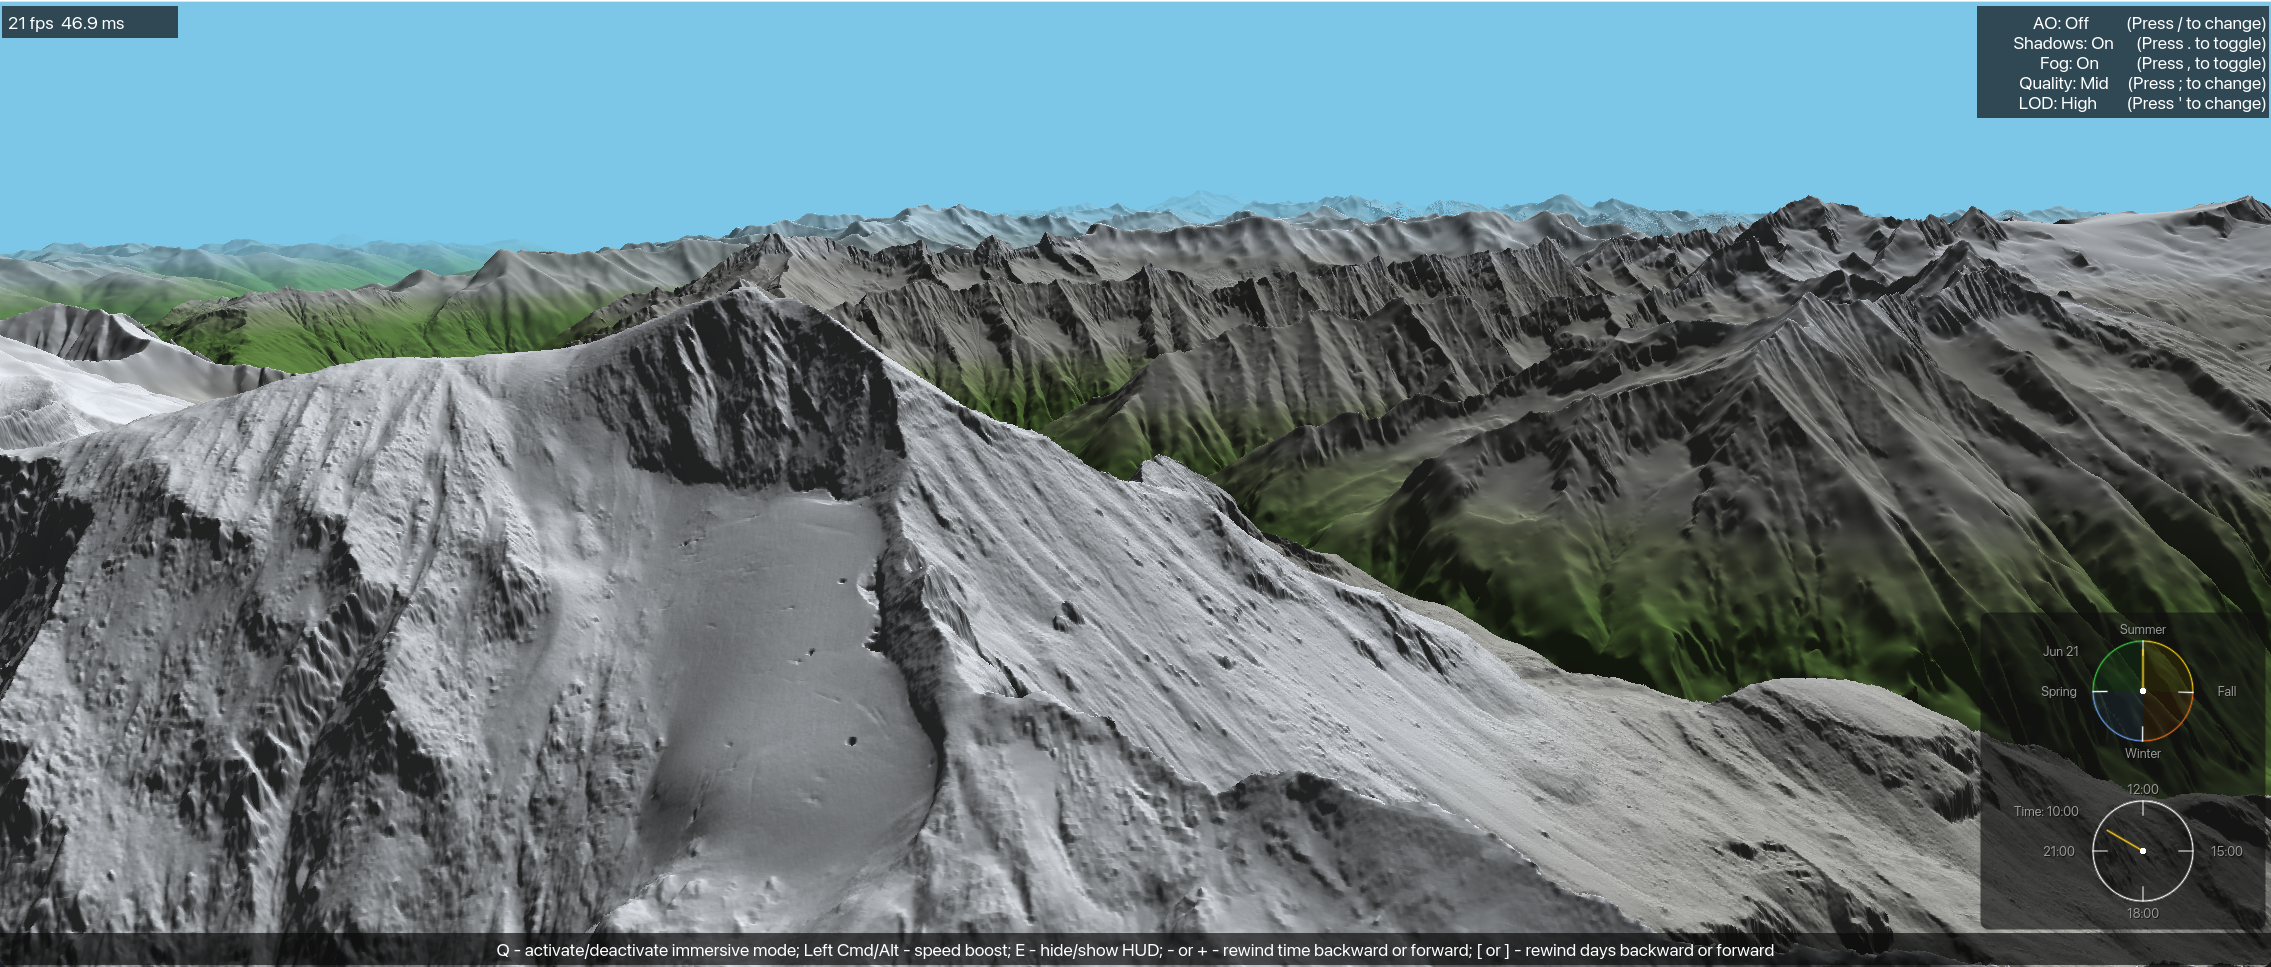
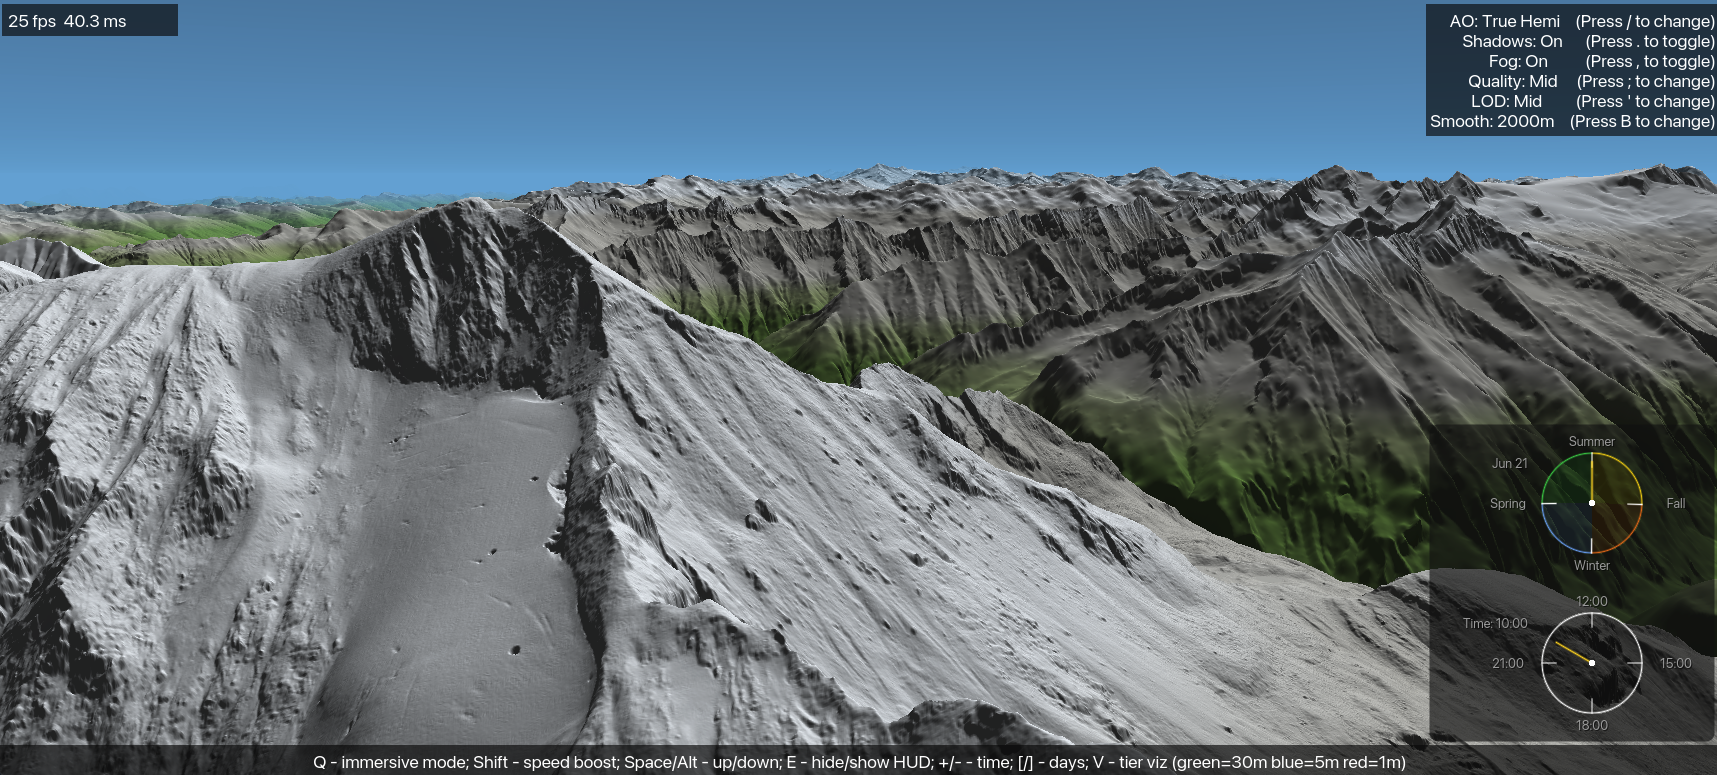
fix: [fix-sky-color-and-grid-load] change sky color to gradient changing with altitude, cap grid to gpu limit, change screenshot, add impr plan for coarse tier

diff --git a/crates/dem_io/src/grid.rs b/crates/dem_io/src/grid.rs
@@ -2,14 +2,10 @@ use std::path::{Path, PathBuf};
 
 use crate::Heightmap;
 
-fn tile_path(tiles_dir: &Path, lat: i32, lon: i32) -> PathBuf {
-    let name = format!("Copernicus_DSM_COG_10_N{:02}_00_E{:03}_00_DEM", lat, lon);
-    tiles_dir.join(&name).join(format!("{}.tif", name))
-}
-
-/// Like `load_grid` but uses an explicit path list instead of directory convention.
 /// Loads every path, reads tile position from `origin_lat`/`origin_lon` metadata,
-/// finds the NW-most tile, derives the 3×3 centre, and assembles. No filename parsing.
+/// then assembles an N×M rectangle covering the full bounding box of the supplied
+/// tiles. Missing tiles inside the bounding box are filled with 0.0. The caller
+/// chooses the grid extent by deciding which tiles to pass in.
 pub fn load_grid_from_paths<F>(paths: &[PathBuf], loader: F) -> Heightmap
 where
     F: Fn(&Path) -> Option<Heightmap>,
@@ -34,62 +30,55 @@ where
         "load_grid_from_paths: no tiles loaded"
     );
 
-    // NW-most tile = highest lat, lowest lon.
-    // NW offset in a 3×3 grid is (+1, -1) from centre, so centre = (nw_lat-1, nw_lon+1).
-    let nw_lat = tile_map.keys().map(|(la, _)| *la).max().unwrap();
-    let nw_lon = tile_map.keys().map(|(_, lo)| *lo).min().unwrap();
-    let centre_lat = nw_lat - 1;
-    let centre_lon = nw_lon + 1;
+    // Bounding box over actual loaded tiles. The grid is (max_lat - min_lat + 1)
+    // rows × (max_lon - min_lon + 1) cols; any missing cell stays None and
+    // assemble_grid fills it with zeros.
+    let max_lat = tile_map.keys().map(|(la, _)| *la).max().unwrap();
+    let min_lat = tile_map.keys().map(|(la, _)| *la).min().unwrap();
+    let min_lon = tile_map.keys().map(|(_, lo)| *lo).min().unwrap();
+    let max_lon = tile_map.keys().map(|(_, lo)| *lo).max().unwrap();
+    let n_rows = (max_lat - min_lat + 1) as usize;
+    let n_cols = (max_lon - min_lon + 1) as usize;
 
-    let offsets = [
-        [(1, -1), (1, 0), (1, 1)],
-        [(0, -1), (0, 0), (0, 1)],
-        [(-1, -1), (-1, 0), (-1, 1)],
-    ];
-
-    let tiles: [[Option<Heightmap>; 3]; 3] = std::array::from_fn(|row| {
-        std::array::from_fn(|col| {
-            let (dlat, dlon) = offsets[row][col];
-            tile_map.remove(&(centre_lat + dlat, centre_lon + dlon))
+    // Row 0 = northern-most strip (max_lat), col 0 = western-most (min_lon).
+    let tiles: Vec<Vec<Option<Heightmap>>> = (0..n_rows)
+        .map(|row| {
+            let lat = max_lat - row as i32;
+            (0..n_cols)
+                .map(|col| {
+                    let lon = min_lon + col as i32;
+                    tile_map.remove(&(lat, lon))
+                })
+                .collect()
         })
-    });
+        .collect();
 
-    let grid: [[Option<&Heightmap>; 3]; 3] =
-        std::array::from_fn(|row| std::array::from_fn(|col| tiles[row][col].as_ref()));
+    let grid: Vec<Vec<Option<&Heightmap>>> = tiles
+        .iter()
+        .map(|row| row.iter().map(|t| t.as_ref()).collect())
+        .collect();
 
     assemble_grid(&grid)
 }
 
-pub fn load_grid<F>(tiles_dir: &Path, centre_lat: i32, centre_lon: i32, loader: F) -> Heightmap
-where
-    F: Fn(&Path) -> Option<Heightmap>,
-{
-    let offsets = [
-        [(1, -1), (1, 0), (1, 1)],
-        [(0, -1), (0, 0), (0, 1)],
-        [(-1, -1), (-1, 0), (-1, 1)],
-    ];
+/// Assemble an N×M rectangular grid of equally-sized tiles into one heightmap.
+/// `grid[0][0]` is the NW corner and must be present (defines tile dims and origin).
+/// Any other cell may be `None` and is filled with zeros.
+pub fn assemble_grid(grid: &[Vec<Option<&Heightmap>>]) -> Heightmap {
+    assert!(!grid.is_empty(), "assemble_grid: empty grid");
+    let n_rows = grid.len();
+    let n_cols = grid[0].len();
+    assert!(n_cols > 0, "assemble_grid: empty row");
+    assert!(
+        grid.iter().all(|row| row.len() == n_cols),
+        "assemble_grid: ragged grid (rows must all have the same length)"
+    );
 
-    let tiles: [[Option<Heightmap>; 3]; 3] = std::array::from_fn(|row| {
-        std::array::from_fn(|col| {
-            let (dlat, dlon) = offsets[row][col];
-            let path = tile_path(tiles_dir, centre_lat + dlat, centre_lon + dlon);
-            loader(&path)
-        })
-    });
-
-    let grid: [[Option<&Heightmap>; 3]; 3] =
-        std::array::from_fn(|row| std::array::from_fn(|col| tiles[row][col].as_ref()));
-
-    assemble_grid(&grid)
-}
-
-pub fn assemble_grid(grid: &[[Option<&Heightmap>; 3]; 3]) -> Heightmap {
     let nw_tile: &Heightmap =
         grid[0][0].expect("no NW tile provided, NW should always be provided");
 
     // assemble_grid indexes every sibling tile using nw_tile.cols/rows. That's correct
-    // for the only current callers (3×3 Copernicus GLO-30 grids, where all tiles share
+    // for the only current callers (Copernicus GLO-30 grids, where all tiles share
     // a 3600×3600 pixel layout) but it's a latent assumption — a mixed-resolution or
     // partial-overview grid would silently produce shifted rows or panic on slice OOB.
     // Catch that misuse before it surfaces as corrupted terrain.
@@ -104,13 +93,13 @@ pub fn assemble_grid(grid: &[[Option<&Heightmap>; 3]; 3]) -> Heightmap {
     );
 
     let mut assembled_data: Vec<f32> =
-        Vec::with_capacity(grid.len() * nw_tile.rows * grid[0].len() * nw_tile.cols);
+        Vec::with_capacity(n_rows * nw_tile.rows * n_cols * nw_tile.cols);
 
-    for tile_row in 0..3 {
+    for tile_row in 0..n_rows {
         for pixel_row in 0..nw_tile.rows {
-            for tile_col in 0..3 {
+            for tile_col in 0..n_cols {
                 match grid[tile_row][tile_col] {
-                    None => assembled_data.extend(std::iter::repeat(0.0f32).take(nw_tile.cols)),
+                    None => assembled_data.extend(std::iter::repeat_n(0.0f32, nw_tile.cols)),
                     Some(hm) => assembled_data.extend_from_slice(
                         &hm.data[pixel_row * nw_tile.cols..(pixel_row + 1) * nw_tile.cols],
                     ),
@@ -121,8 +110,8 @@ pub fn assemble_grid(grid: &[[Option<&Heightmap>; 3]; 3]) -> Heightmap {
 
     Heightmap {
         data: assembled_data,
-        rows: nw_tile.rows * grid.len(),
-        cols: nw_tile.cols * grid[0].len(),
+        rows: nw_tile.rows * n_rows,
+        cols: nw_tile.cols * n_cols,
         nodata: nw_tile.nodata,
         origin_lat: nw_tile.origin_lat,
         origin_lon: nw_tile.origin_lon,

diff --git a/src/viewer/scene_init.rs b/src/viewer/scene_init.rs
@@ -37,7 +37,7 @@ pub(super) fn compute_ao_cropped(hm: &Heightmap, cam_x: f64, cam_y: f64) -> Vec<
     ao
 }
 
-/// Initial scene for demo mode: loads a Copernicus 3×3 grid from `demo_view.base_tile_paths`,
+/// Initial scene for demo mode: loads an N×M Copernicus grid from `demo_view.base_tile_paths`,
 /// then also builds the overview cache for each close tile so the close worker starts fast.
 pub(crate) fn prepare_demo_scene_with_ctx(
     gpu_ctx: GpuContext,
@@ -55,10 +55,21 @@ pub(crate) fn prepare_demo_scene_with_ctx(
         dem_io::parse_geotiff_auto(p).ok()
     });
     dem_io::clamp_nodata_to_sea(&mut hm);
+    let n_tiles = demo_view.base_tile_paths.len();
+    let (raw_cols, raw_rows) = (hm.cols, hm.rows);
+    // Cap the assembled grid to GPU_SAFE_PX centered on the camera before any
+    // downstream work — normals/shadows/AO/GPU upload all scale with grid area,
+    // and texture dimensions above the adapter limit (8 192–16 384 depending on
+    // hardware) fail validation. cap_to_gpu_limit no-ops when the grid already
+    // fits, so 3×3 demos behave exactly as before.
+    hm = cap_to_gpu_limit(hm, cam_lon, cam_lat);
     println!(
-        "demo base 3×3 grid: {}×{} at {:.4}°/px  ({:.2?})",
+        "demo base grid: {}×{} ({} tiles, cropped from {}×{}) at {:.4}°/px  ({:.2?})",
         hm.cols,
         hm.rows,
+        n_tiles,
+        raw_cols,
+        raw_rows,
         hm.dx_deg,
         t0.elapsed()
     );

diff --git a/crates/dem_io/src/lib.rs b/crates/dem_io/src/lib.rs
@@ -11,7 +11,7 @@ pub use geotiff::{
     tile_centre_crs,
 };
 pub use grid::{
-    assemble_grid, crop, load_grid, load_grid_from_paths, stitch_windows, stitch_windows_geographic,
+    assemble_grid, crop, load_grid_from_paths, stitch_windows, stitch_windows_geographic,
 };
 pub use heightmap::{Heightmap, clamp_nodata_to_sea, fill_nodata_from_base, parse_bil};
 pub use overview::{BASE_OVERVIEW_TARGET_M, CLOSE_OVERVIEW_TARGET_M, ensure_overview_cache};

diff --git a/docs/improvements/far_tier_coarse_horizon.md b/docs/improvements/far_tier_coarse_horizon.md
@@ -1,0 +1,170 @@
+# Far tier — coarse-resolution horizon ring
+
+## Motivation
+
+The 3-tier streamer (`base` ≈ 30 m / 70–90 km, `close` ≈ 5 m / 8–20 km, `fine` ≈ 1 m / 1–3.5 km) caps visibility at the base radius. Beyond that the ray exits the loaded heightmap and falls through to the sky/fog color — even though the camera (especially at altitude) can plausibly see terrain hundreds of kilometres away.
+
+Trying to raise the base radius hits two walls:
+
+1. **Adapter texture-dimension limit.** `GPU_SAFE_PX = 8192` is the conservative cross-hardware floor (some adapters allow 16384). At 47 °N a 90 km E-W radius already needs ~7 200 px at 30 m/px — bumping radius to 200 km would need ~16 000 px, which exceeds the safe floor.
+2. **CPU work scales with area.** Normals, shadow sweep, AO and the GPU upload bytes all scale with `radius²`. Doubling the base radius quadruples the per-reload cost, and reloads already produce a perceptible hitch on integrated GPUs.
+
+But neither cost is justified by what the user actually sees at long distance.
+
+### The screen-pixel-vs-source-pixel math
+
+At a 60° horizontal FOV on a 1920-wide window, a screen pixel subtends `60° / 1920 ≈ 0.031°`. The terrain distance covered by one screen pixel at distance `D` is `D × tan(0.031°) ≈ D / 1830`.
+
+| Distance | Terrain m / screen px | Useful source resolution |
+|---|---|---|
+| 10 km | 5.5 m | 5 m source (close tier) is matched |
+| 30 km | 16 m | 30 m source is matched |
+| 50 km | 27 m | 30 m source still slightly oversampled |
+| 100 km | 55 m | 60 m source visually identical to 30 m |
+| 200 km | 109 m | 90 m source visually identical to 30 m |
+| 300 km | 164 m | 180 m source visually identical |
+| 500 km | 273 m | 270–360 m source fine |
+
+Past ~50 km, 30 m source is wasted — you're spending VRAM and bandwidth on detail the viewer cannot resolve. A coarser tier covering the same area uses dramatically less budget: a 90 m tier covers 3× the radius of a 30 m tier in the same texel count, and a 270 m tier covers 9× the radius.
+
+## Proposed design
+
+Add a fourth tier — call it `far` — wrapped around the existing base tier.
+
+### Numbers
+
+| Parameter | Value (proposed default, High preset) |
+|---|---|
+| Source pixel scale | 90 m/px (3× downsample of GLO-30) |
+| Radius | 300 km |
+| Window size | ~6 700 × 6 700 px at 47 °N (fits 8 192) |
+| Drift threshold | 100 km (1/3 of radius, matches existing tier ratio) |
+| GPU formats | R16Float heightmap + 8 mips, packed-u32 normals; **no shadow buffer, no AO** |
+| VRAM cost | ~190 MB (hm 90 + normals 90) — comparable to current base tier |
+
+Low/Mid/High presets get the same scaling as existing tiers (~0.55× / 0.78× / 1.0× radius).
+
+Optional second far stage at 270 m/px / 900 km radius if Everest-style "see the curvature" panoramas become a goal. Skip for v1.
+
+### What the far tier omits
+
+- **Shadows.** A 200 km shadow sweep at 90 m/px is ~6 700² × 100 ray steps = 4.5 G ops per reload. At distance, sun shadows are also dominated by atmospheric haze and aerial perspective — the contribution to perceived shading is small. Render the far tier under a simple Lambertian `dot(normal, sun_dir)` instead.
+- **AO.** Same story — AO bake is `O(area × 16 azimuths × ray_length)`, and ambient occlusion at >100 km is visually negligible against fog.
+- **Fine-tier-style bicubic interpolation.** Too distant to matter, and the linear filter on the R16Float texture is enough.
+
+These omissions are the entire point of having a separate tier — the existing base tier code already has both shadow and AO branches, and we don't want to scale them up.
+
+### Blending with the base tier
+
+Same `BLEND_MARGIN` (500 m) feathered transition `smoothstep` that the base/close and close/fine boundaries use. Far tier samples are active when the ray is **outside** the base tier's loaded extent, fading in over a 500 m margin so the base→far transition is invisible. At the very outer edge of the far tier, fog should already be near 100% — see "Fog tuning" below.
+
+## Architectural impact
+
+### Bind group
+
+Current canonical 20-entry bind group (see CLAUDE.md "Bind Group Layout"). Adding a far tier extends it by 4 entries:
+
+| New binding | Resource |
+|---|---|
+| 20 / 21 | far hm `texture_2d<f32>` (R16Float, 8 mips) + filtering sampler |
+| 22 | far packed normals (`storage, read` u32 array) |
+| 23 | far tier rotation / origin / extent (could be packed into `CameraUniforms` instead — see Open question 1) |
+
+Or — pack everything into `CameraUniforms` and re-use the existing base sampler / a single new texture binding. The exact layout is a micro-decision; what matters is `rebuild_bind_group` already handles structural changes and is the single canonical assembly point.
+
+### Shader
+
+Mirror the existing base/close/fine blend in `crates/render_gpu/src/shader_texture.wgsl` (around line 527, the `// ── height sample: base → 5m → 1m blend ──` region). New layering, **from coarsest to finest**:
+
+```
+h = far_sample(uv_far)                              // always available, biggest extent
+h = mix(h, base_sample(uv_base), base_in_mask)
+h = mix(h, close_sample(uv_close), close_blend_mask)
+h = mix(h, fine_sample(uv_fine), fine_blend_mask)
+```
+
+Same for normals. Shadow and AO branches stay on the existing base/close/fine tiers only — the far tier contributes only height + normals + a simple sun-dot term.
+
+### Tile sources
+
+90 m/px source data is straightforward — `ensure_overview_cache` (`crates/dem_io/src/overview.rs`) already builds box-averaged pyramids. Need to extend it to also produce a ~90 m level next to existing ~8 m / ~32 m levels (or add a separate `ensure_far_overview_cache`).
+
+For the Copernicus 3×3 / 5×5 / etc. demo path, the assembled grid is currently dropped at 30 m. We'd either:
+
+- **Option F1 (assembly-time downsample).** After `load_grid_from_paths` assembles the N×M grid, box-average to 90 m before handing to the far worker. The far tier loads from an in-memory copy, never re-reads from disk.
+- **Option F2 (overview cache for Copernicus tiles too).** `ensure_overview_cache` was designed for large single-IFD tiles; extending it to mosaicked Copernicus needs care because the assembled grid isn't a file. Effectively the same work as F1, just persisted.
+
+F1 is cheaper for a first cut.
+
+### Worker thread
+
+A new `FarTier` worker mirroring `BevBaseState::base` in `src/viewer/tiers.rs`:
+
+- Holds WGS84 `(lat, lon)`, drift threshold 100 km.
+- On drift, re-extracts a `2 × far_radius_m` window from the source set (or downsampled cache).
+- Computes normals (skip shadow/AO).
+- Pre-packs bytes (u32 normals, f16 hm + mips) on the worker.
+- Sends a `FarTierData` bundle for `write_texture` / `write_buffer` on the main thread.
+
+OOM degradation path (`render_gpu::context::on_uncaptured_error`): if VRAM runs out, **disable the far tier first** (it's the least-visually-important), then the fine, then the close. Update `Viewer::poll_oom_status` accordingly.
+
+### TierRadii
+
+`TierRadii` in `src/viewer/tiers.rs` gains a `far_radius_m` + `far_drift_threshold_m` field per `VramClass`. Demo TOML override section follows the existing pattern. Suggested defaults:
+
+| VramClass | far_radius_m | far_drift |
+|---|---|---|
+| Low | 150 km | 50 km |
+| Mid | 220 km | 75 km |
+| High | 300 km | 100 km |
+
+## Fog tuning
+
+The current `sky_color`-driven fog (`shader_texture.wgsl`, ~line 812) already scales fog distance with altitude (`exp(alt/8000)`, capped at 6× ≈ 360 km `fog_far`). With a 300 km far tier:
+
+- At sea level, fog_far = 60 km. Far tier covers 300 km of terrain that's entirely behind 100% fog. **Wasted load.**
+- At 3 km, fog_far = 87 km. Still mostly fogged.
+- At 8 km (Everest), fog_far = 163 km. Outer half of far tier is fogged.
+- At ≥14 km, fog_far = 360 km. Far tier is fully visible.
+
+So either:
+- Gate the far tier load on `cam.origin.z > 2_000.0` (or similar) — don't pay the load cost when you can't see it.
+- Or accept the over-load at low altitude as the cost of a uniform tier model and let the OOM degradation path drop it when memory pressure rises.
+
+The former is cleaner.
+
+## VRAM accounting
+
+Per the existing `[vram] alloc tex …` instrumentation, expected adds for High preset:
+
+```
+far_hm_tex        ~92 MB  (8192² × 2 bytes × 1.33 mip overhead)
+far_normals_buf   ~90 MB  (8192² × 4 bytes / 3 for cropped 6700²)
+                  ─────
+                   ~180 MB  on top of current ~896 MB Mid budget
+```
+
+Comfortably fits on 4 GB+ discrete; will trip OOM degradation on 2 GB Intel Iris-class integrated. That's expected and handled.
+
+## Open questions
+
+1. **Bind group expansion vs. uniform packing.** Cleanest in shader is a 4th texture binding pair; cleanest in CPU code might be to push the far tier's origin/extent/rotation into `CameraUniforms` and keep the bind group at 24 entries instead of also bumping the binding-group entry count. Decide when implementing.
+2. **Do we need a far normal map at all?** A 90 m surface is flat-looking enough that a single per-tier "flat" normal might be acceptable. Saves the 90 MB normal buffer. Worth A/B-ing — would the user notice the loss of shading detail past 100 km?
+3. **Sun shadow contribution at distance.** Once the far tier exists, we should probably blend the existing base-tier shadow buffer outward by feathering its value to "no shadow" (1.0) at the base/far boundary, not abruptly cutting off. Otherwise there's a visible shadow termination line at 90 km on a clear day.
+4. **Single-tier collapse.** When the camera is low and fog hides everything past 80 km, should the far tier worker actually run? Combine with Question 4 from the open items in CLAUDE.md re: low-altitude visibility gating.
+
+## Prerequisites and ordering
+
+This builds on top of:
+
+1. ✅ N×M `assemble_grid` (just landed in `crates/dem_io/src/grid.rs`) — needed so the demo path can supply enough tiles to actually fill a 300 km far ring.
+2. ✅ Camera-centered crop in `prepare_demo_scene_with_ctx` (just landed in `src/viewer/scene_init.rs`) — needed so the base tier doesn't try to upload an 18000² texture from the same source pool.
+3. Generic overview-cache support for assembled (non-file) grids if going with Option F2 (otherwise F1 sidesteps this).
+
+The far tier itself is the largest single change in this list. The two prereqs were needed regardless (the user's 5×5 fog test exposed both).
+
+## Out of scope
+
+- Curvature-of-Earth ray bending for true 500 km+ horizon math. Becomes relevant past ~200 km. Worth its own doc.
+- LOD-aware ray-step adjustment (longer steps when sampling the far tier). Probably necessary for shader perf; covered by existing `lod_step_div` switch but tuning is part of far-tier integration.
+- Sky-ground horizon line (haze gradient on the sky color where it meets the terrain at the horizon). Independent shader work.
